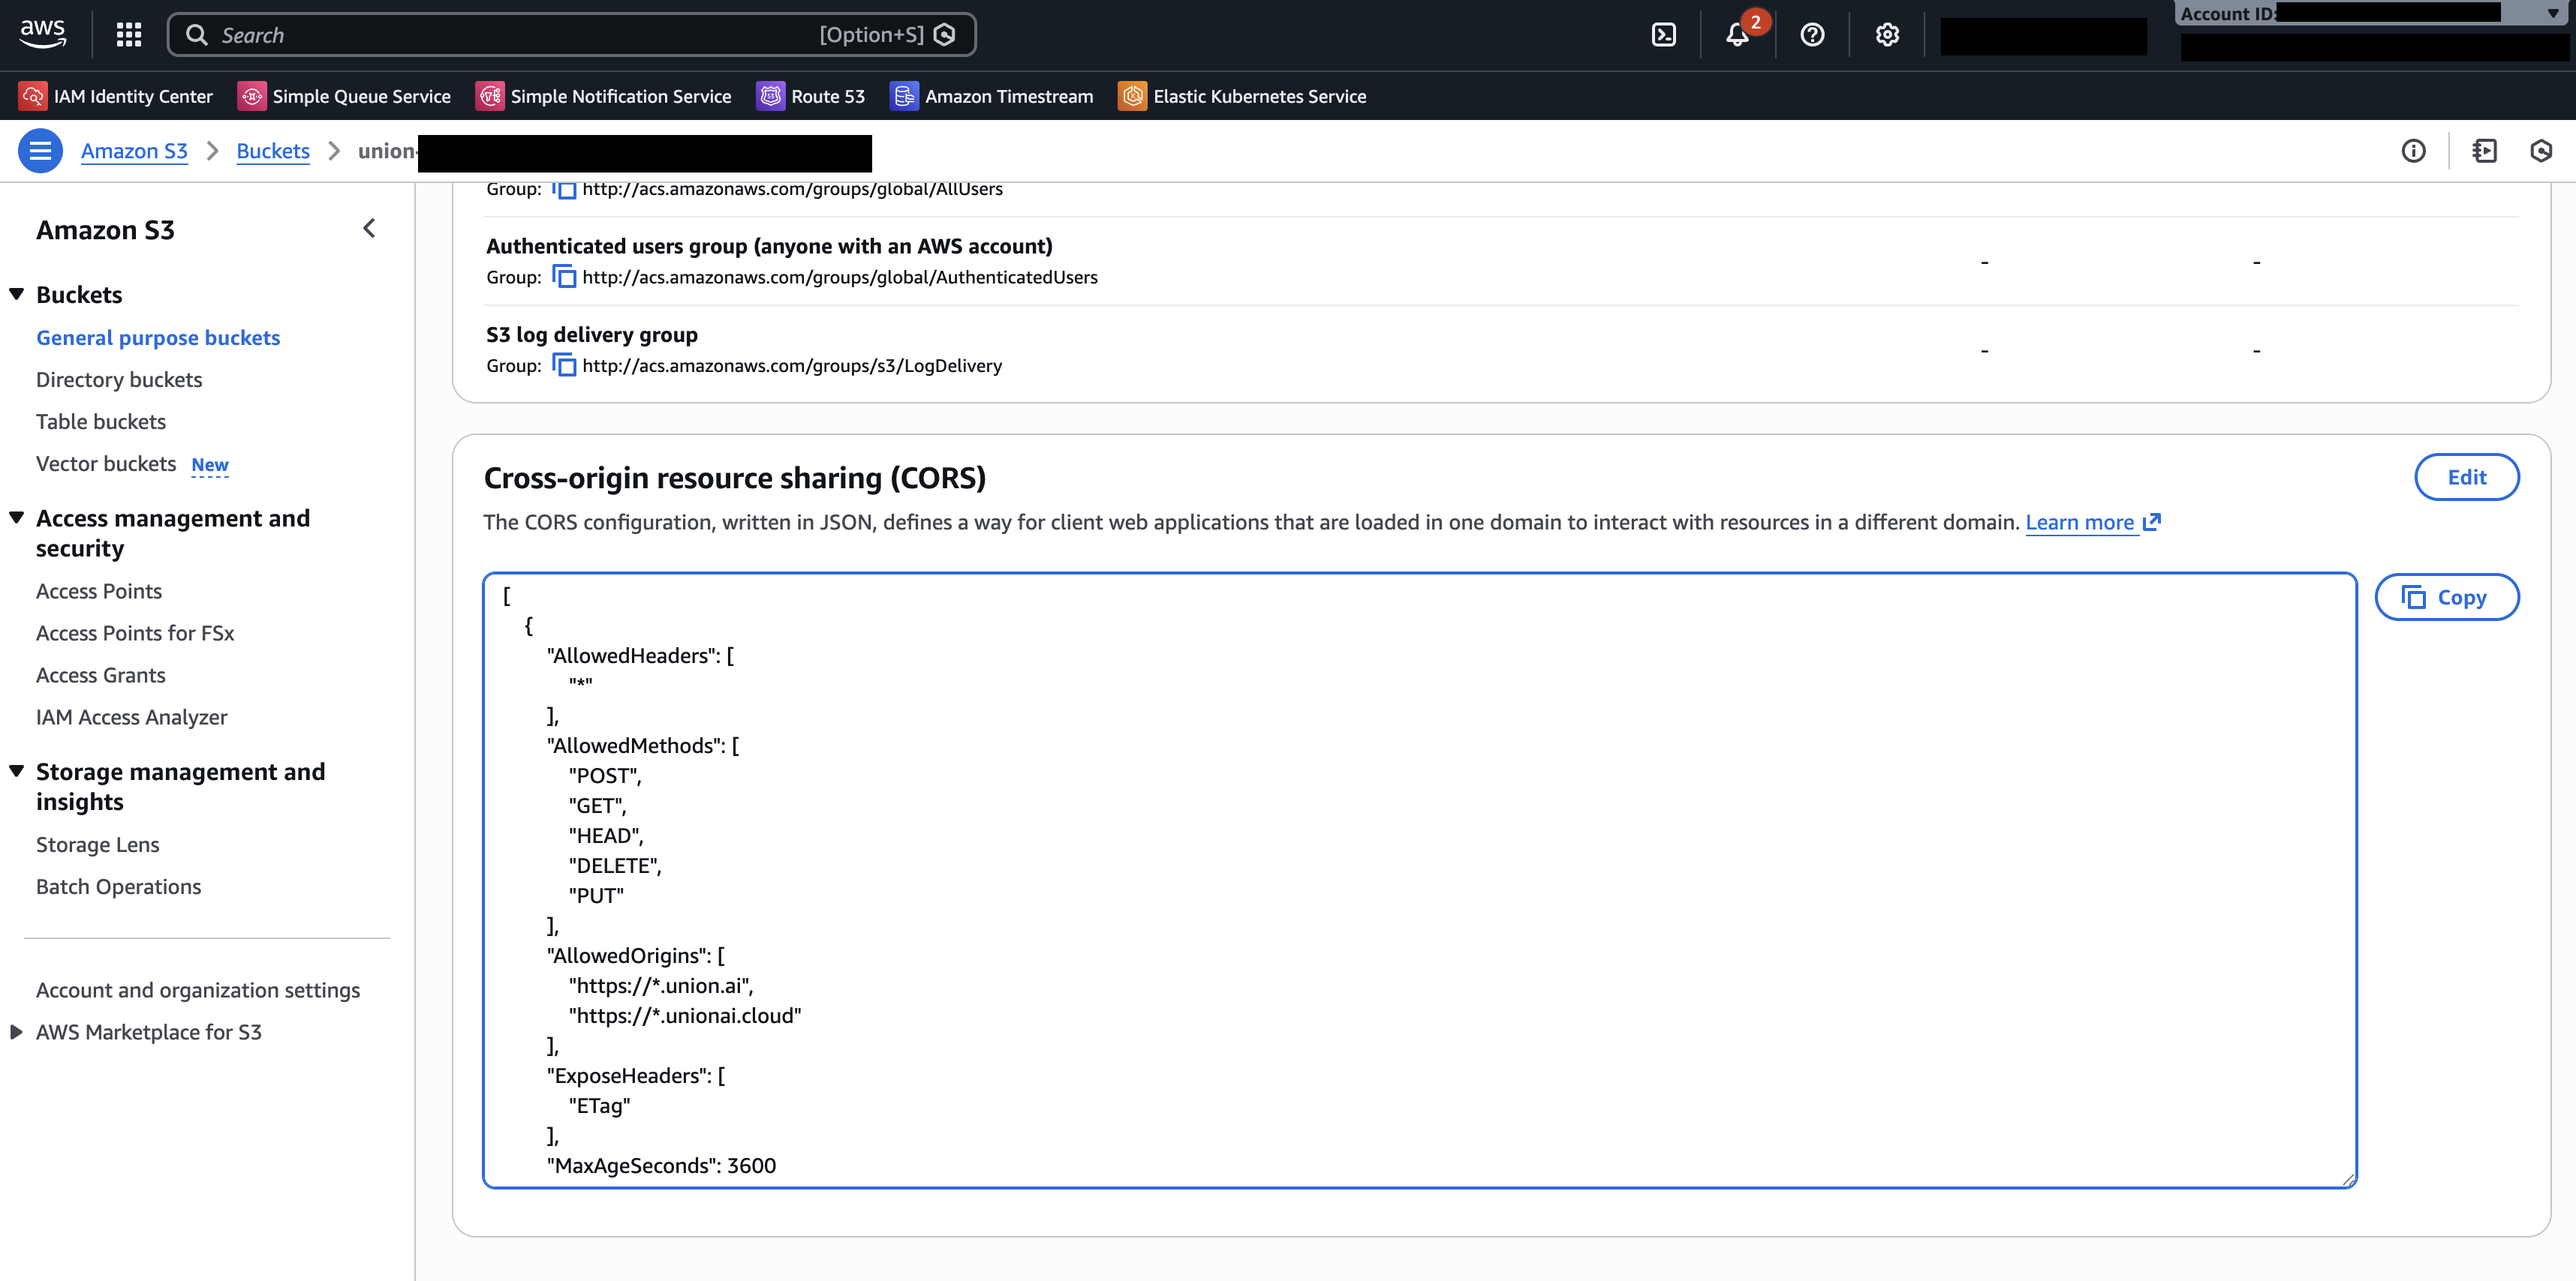
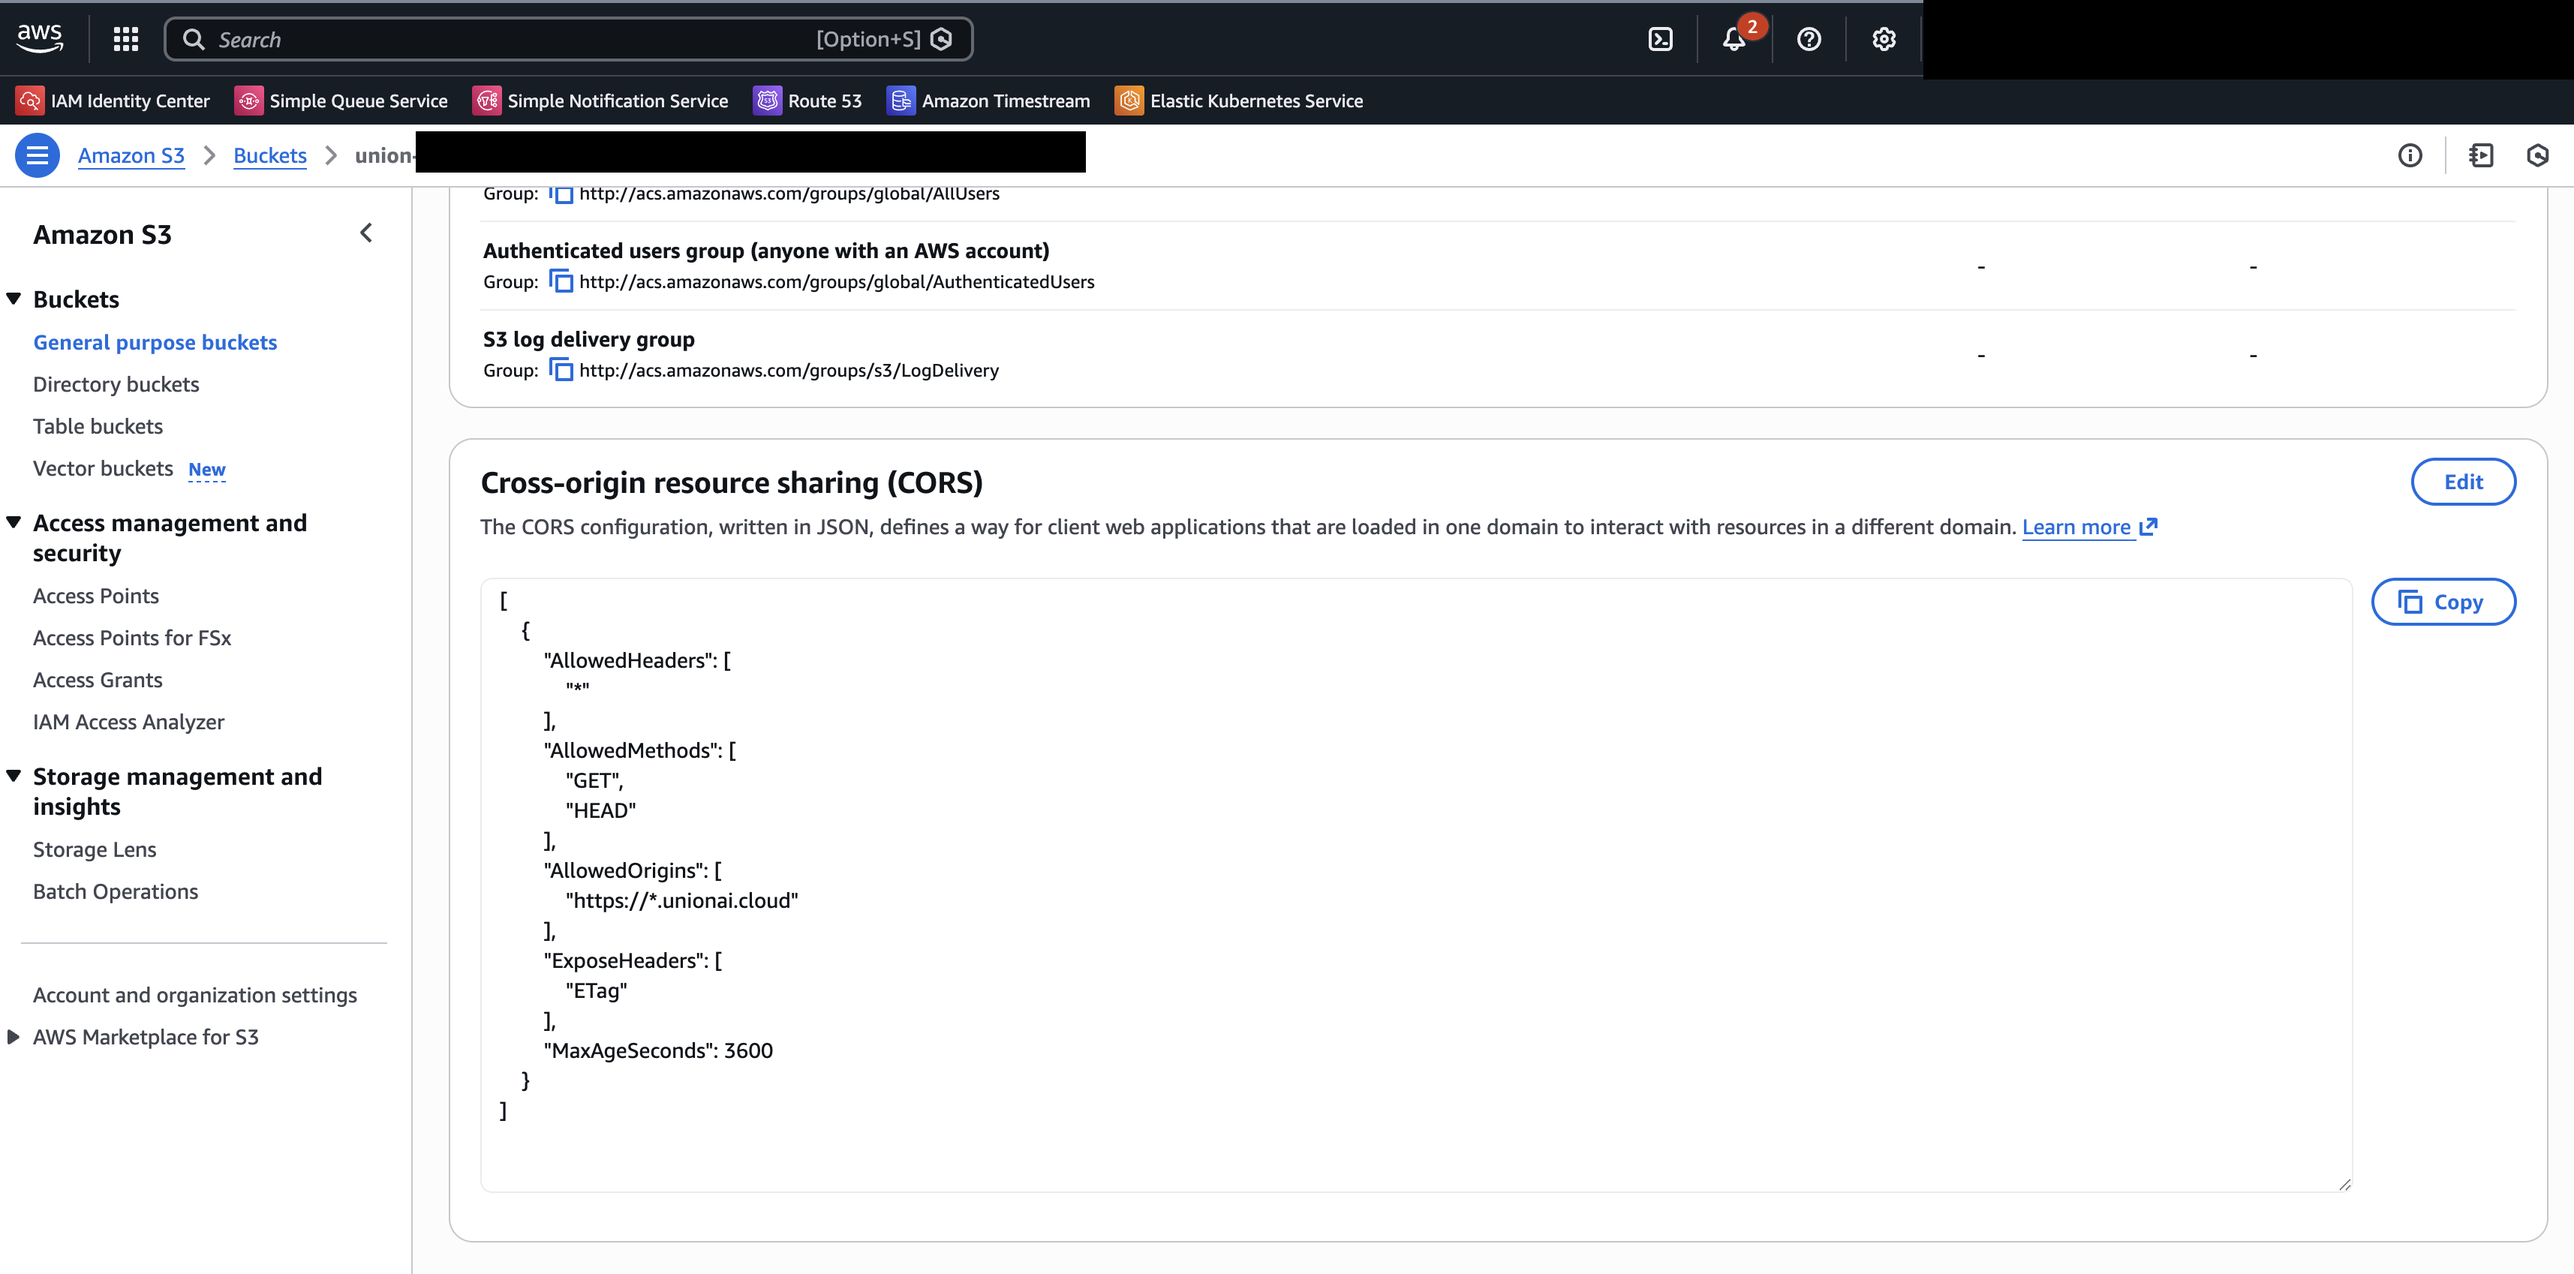
wip

diff --git a/content/deployment/configuration/code-viewer.md b/content/deployment/configuration/code-viewer.md
@@ -33,7 +33,6 @@ In order to support this functionality securely, your bucket must allow CORS acc
             "HEAD",
         ],
         "AllowedOrigins": [
-            "https://*.union.ai",
             "https://*.unionai.cloud"
         ],
         "ExposeHeaders": [
@@ -43,8 +42,50 @@ In order to support this functionality securely, your bucket must allow CORS acc
     }
 ]
 ```
+Further reference: [AWS Guide on S3 CORS Policy](https://docs.aws.amazon.com/AmazonS3/latest/userguide/cors.html)
 {{< /tab >}}
 {{< tab "Google GCS" >}}
-foo
+Google GCS does not allow changing the bucket policy through the console.
+1. Create a cors.json configuration file and paste the content below
+    ```json
+    [
+        {
+        "origin": ["https://*.unionai.cloud"],
+        "method": ["HEAD", "GET"],
+        "responseHeader": ["ETag"],
+        "maxAgeSeconds": 3600
+        }
+    ]
+    ```
+2. Apply the cors configuration:
+    ```bash
+    gcloud storage buckets update gs://<fast_registration_bucket> --cors-file=cors.json
+    ```
+3. View configuration to confirm:
+   ```bash
+   gcloud storage buckets describe gs://<fast_registration_bucket> --format="default(cors_config)"
+
+   cors_config:
+   - maxAgeSeconds: 3600
+     method:
+     - GET
+     - HEAD
+     origin:
+     - https://*.unionai.cloud
+     responseHeader:
+     - ETag
+   ```
+Further reference: [Google Guide on GCS CORS Policy](https://docs.cloud.google.com/storage/docs/using-cors#command-line)
+{{< /tab >}}
+{{< tab "Azure Storage" >}}
+Further reference: [Azure Guide on Storage CORS Policy](https://learn.microsoft.com/en-us/rest/api/storageservices/cross-origin-resource-sharing--cors--support-for-the-azure-storage-services)
 {{< /tab >}}
 {{< /tabs >}}
+
+## Troubleshooting
+
+| Error Message | Cause | Fix |
+|---------------|-------|-----|
+| `Not available: No code available for this action.` | The underlying task doesn't have a code bundle, this could be because all code is already in the underlying docker image or the task isn't a code task. | Expected behavior for non-code-bundled tasks |
+| `Not Found: The code bundle file could not be found. This may be due to your organization's data retention policy.` | The task does use a code bundle but the underlying bundle isn't found in the bucket. | Check fast registration bucket retention policy |
+| `Error: Code download is blocked by your storage bucket's configuration. Please contact your administrator to enable access.` | CORS isn't properly configured on the bucket | Refer to the above guide to enable CORS. |
